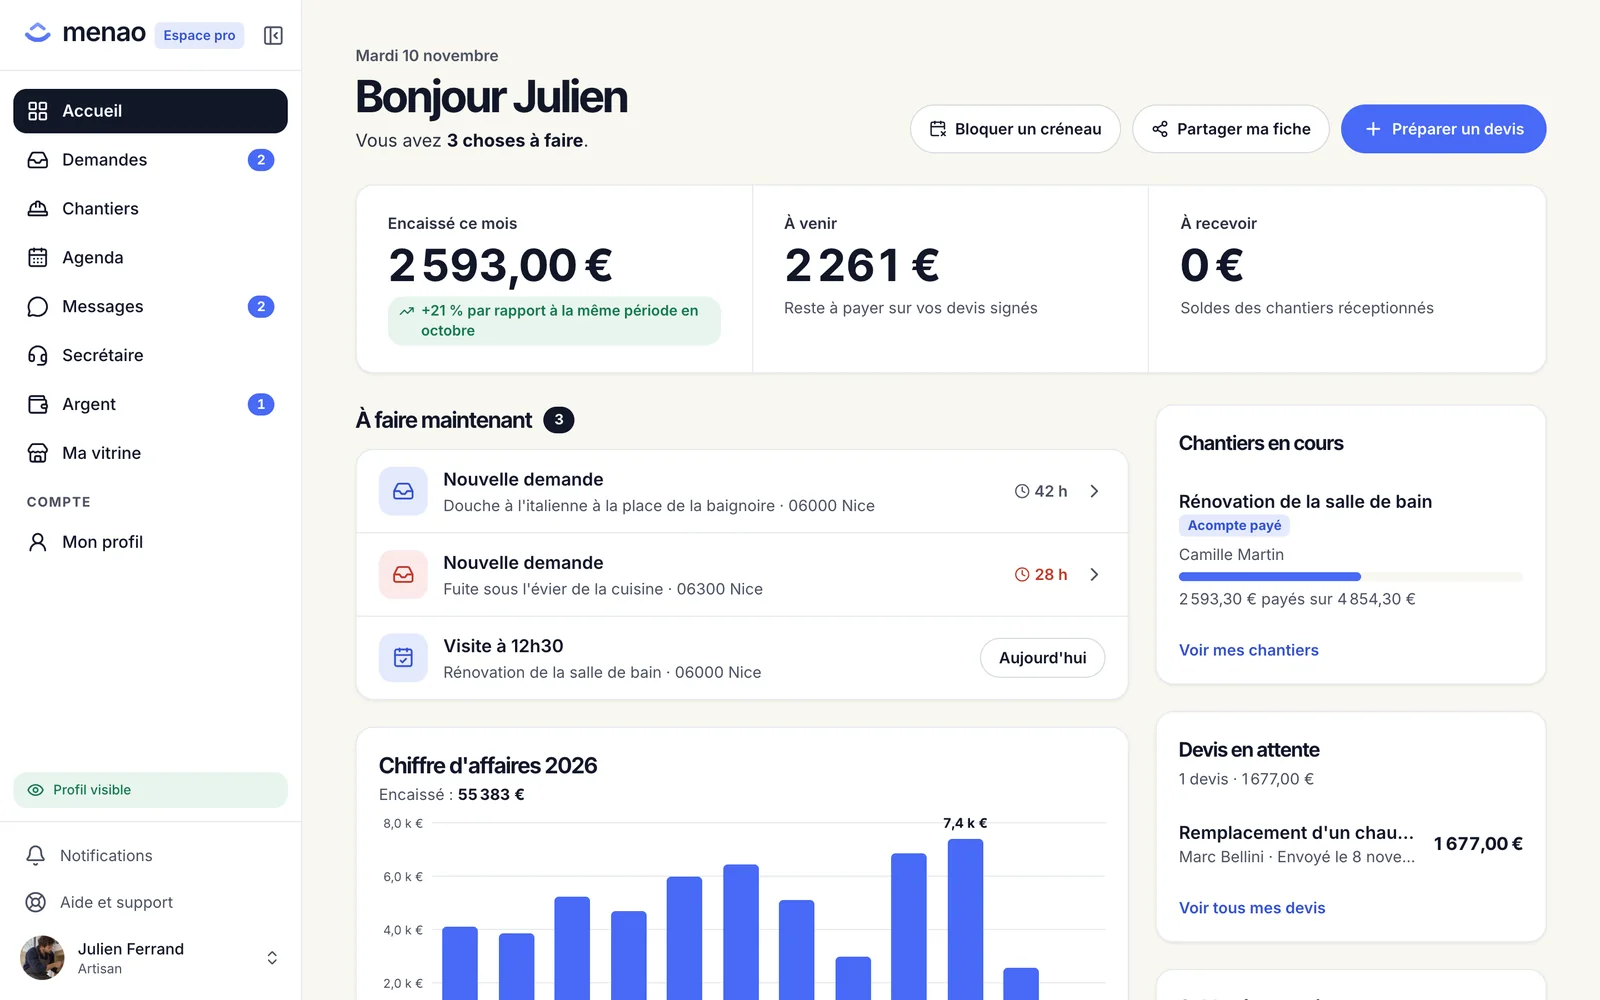
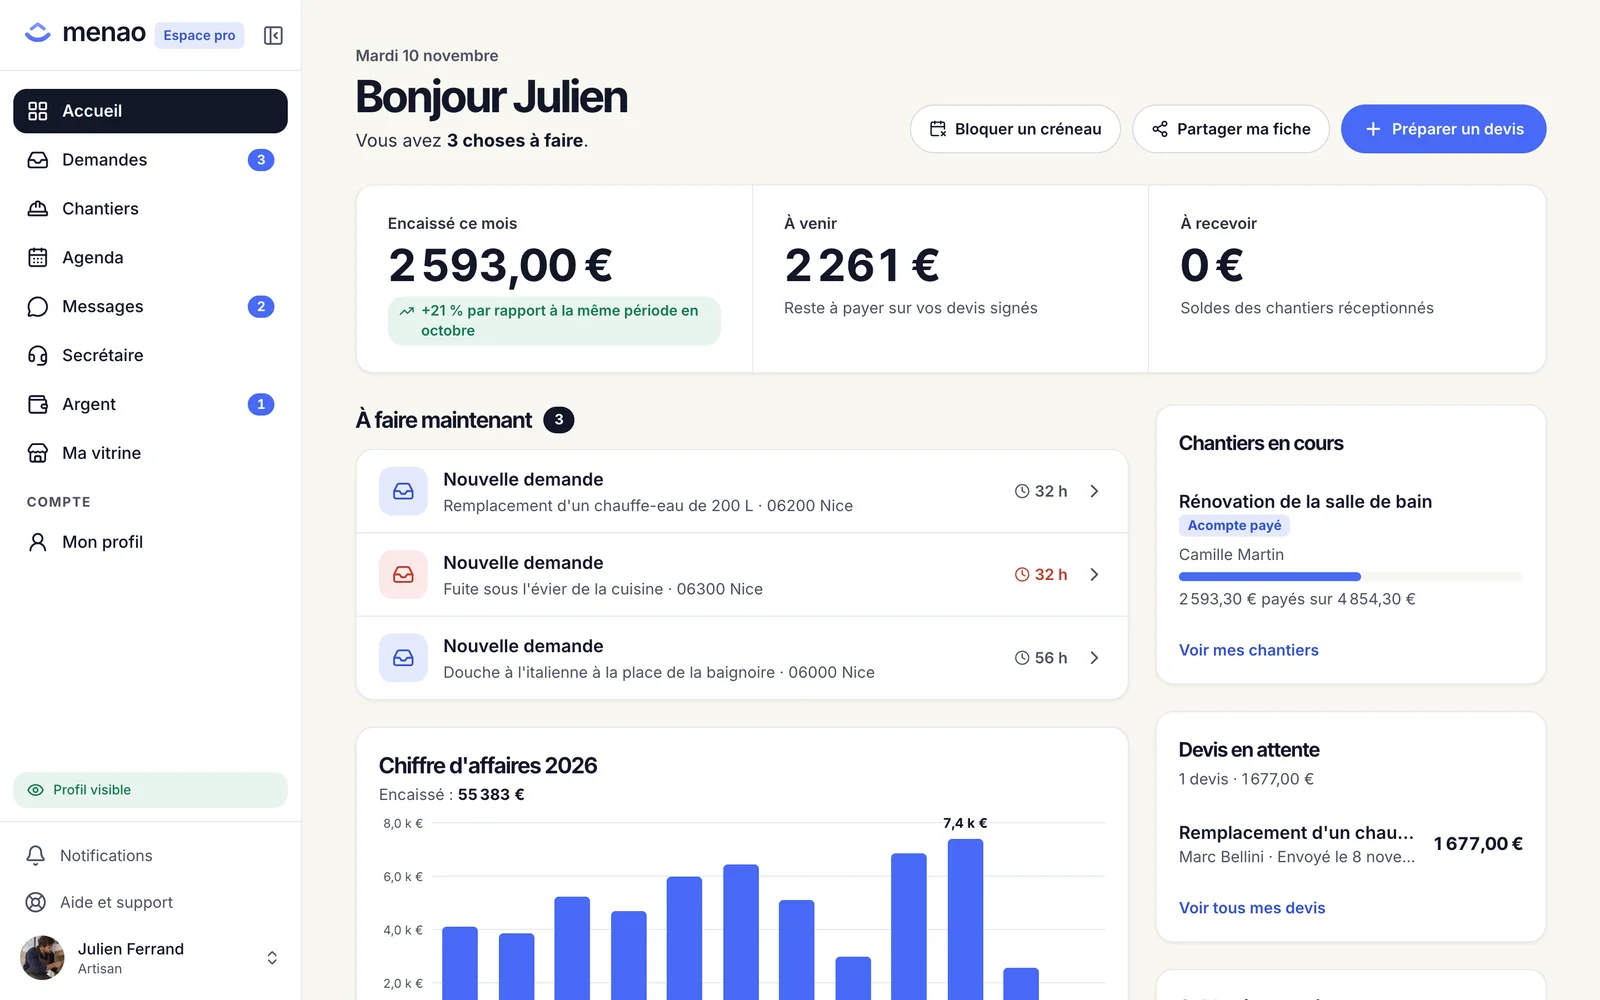
feat(F-118): mockups en grand sur l'Espace Pro et l'accueil (lot 24)
- Bandeau de /pro : le vrai accueil de l'application dans un grand
  téléphone et le parcours en trois cartes (demande, devis signé,
  acompte), à la place de l'ordinateur et du téléphone miniatures.
- Section « Tout-en-un » : tableau de bord dans une fenêtre de
  navigateur et écran « Demandes » dans un téléphone.
- Accueil : les quatre téléphones du parcours montrent l'écran entier.
- Écran web aligné sur les demandes de l'application ; ADR 0270.

Changed region(s): [[0.25, 0.62, 0.5312, 0.682], [0.2812, 0.496, 0.5312, 0.527], [0.625, 0.651, 0.6875, 0.682]]

diff --git a/apps/web/src/components/site/device-mockups.tsx b/apps/web/src/components/site/device-mockups.tsx
@@ -1,11 +1,9 @@
-import type { ReactNode } from "react";
-import { LogoMark } from "@/components/brand/logo";
 import type { AppScreen } from "@/lib/site/app-screens";
 
 /**
- * Mockups du site (ADR 0147) : vrais écrans de l'application dans un téléphone ou un ordinateur
- * dessinés en code (aucune image de cadre), et notification de l'application. Les écrans sont des
- * images ; le cadre suit la largeur donnée par `className`.
+ * Mockups du site (ADR 0147, ADR 0270) : vrais écrans de l'application dans un téléphone ou une
+ * fenêtre de navigateur dessinés en code (aucune image de cadre). Les écrans sont des images ; le
+ * cadre suit la largeur donnée par `className`.
  */
 
 // Téléphone de 390 × 844 points : cadre de 3 % de la largeur, écran exactement au format capturé.
@@ -93,8 +91,8 @@ export function PhoneMockup({
   );
 }
 
-/** Ordinateur portable : écran web de 1 600 × 1 000 et socle. */
-export function LaptopMockup({
+/** Fenêtre de navigateur : écran web de 1 600 × 1 000 sous une barre d'onglet dessinée en code. */
+export function BrowserMockup({
   src,
   alt,
   className = "",
@@ -106,63 +104,34 @@ export function LaptopMockup({
   priority?: boolean;
 }) {
   return (
-    <div className={`relative ${className}`}>
-      <div className="relative mx-[6%] rounded-t-[2.6%_4.2%] bg-[#0c0f1c] p-[1.6%] pb-[2.2%] shadow-[0_40px_80px_-35px_rgb(11_20_56/0.6),inset_0_0_0_1px_rgb(255_255_255/0.1)]">
-        <span
-          aria-hidden="true"
-          className="absolute top-[0.55%] left-1/2 size-[0.7%] -translate-x-1/2 rounded-full bg-white/25"
-        />
-        {/* eslint-disable-next-line @next/next/no-img-element -- images non optimisées par Vercel (spec §4.4) */}
-        <img
-          src={src}
-          alt={alt}
-          width={1600}
-          height={1000}
-          loading={priority ? "eager" : "lazy"}
-          fetchPriority={priority ? "high" : undefined}
-          decoding="async"
-          className="block aspect-[16/10] w-full rounded-[0.4%] object-cover object-top"
-        />
-      </div>
+    <div
+      className={`overflow-hidden rounded-xl border border-border-strong bg-surface shadow-[0_40px_90px_-30px_rgb(17_23_40/0.3)] sm:rounded-[1.125rem] ${className}`}
+    >
       <div
         aria-hidden="true"
-        className="relative aspect-[100/3.4] w-full rounded-b-[50%_100%] bg-gradient-to-b from-[#e8eaf0] to-[#a9aebb] shadow-[0_18px_30px_-18px_rgb(11_20_56/0.6)]"
+        className="flex h-6 items-center gap-1 border-b border-border bg-[#f1f2f5] px-2.5 sm:h-10 sm:gap-[0.4375rem] sm:px-4"
       >
-        <span className="absolute top-0 left-1/2 h-[38%] w-[15%] -translate-x-1/2 rounded-b-lg bg-[#9ca2b0]/60" />
+        {["#ff5f57", "#febc2e", "#28c840"].map((color) => (
+          <span
+            key={color}
+            className="size-1.5 rounded-full sm:size-[0.6875rem]"
+            style={{ backgroundColor: color }}
+          />
+        ))}
+        <span className="mx-auto h-3 w-[32%] rounded-full border border-border bg-surface sm:h-6" />
+        <span className="w-6 sm:w-12" />
       </div>
-    </div>
-  );
-}
-
-/** Notification de l'application, comme sur l'écran verrouillé (valeurs d'exemple). */
-export function AppNotification({
-  title,
-  text,
-  time,
-  icon,
-  className = "",
-}: {
-  title: string;
-  text: string;
-  time: string;
-  icon?: ReactNode;
-  className?: string;
-}) {
-  return (
-    <div
-      aria-hidden="true"
-      className={`flex w-[17.5rem] items-start gap-3 rounded-[1.25rem] bg-white/85 p-3 text-[#121735] shadow-raised ring-1 ring-black/5 backdrop-blur-xl ${className}`}
-    >
-      <span className="flex size-9 shrink-0 items-center justify-center rounded-[0.6rem] bg-primary text-white">
-        {icon ?? <LogoMark tone="white" className="size-5" />}
-      </span>
-      <span className="flex min-w-0 flex-1 flex-col">
-        <span className="flex items-baseline justify-between gap-2">
-          <span className="truncate text-[0.8125rem] font-semibold">{title}</span>
-          <span className="shrink-0 text-[0.6875rem] text-[#121735]/55">{time}</span>
-        </span>
-        <span className="text-[0.8125rem] leading-snug text-[#121735]/80">{text}</span>
-      </span>
+      {/* eslint-disable-next-line @next/next/no-img-element -- images non optimisées par Vercel (spec §4.4) */}
+      <img
+        src={src}
+        alt={alt}
+        width={1600}
+        height={1000}
+        loading={priority ? "eager" : "lazy"}
+        fetchPriority={priority ? "high" : undefined}
+        decoding="async"
+        className="block aspect-[16/10] w-full object-cover object-top"
+      />
     </div>
   );
 }

diff --git a/apps/web/src/app/(site)/pro/page.tsx b/apps/web/src/app/(site)/pro/page.tsx
@@ -23,13 +23,14 @@ import { AgentsSection } from "@/components/pro-landing/agents-section";
 import { CallbackLink } from "@/components/pro-landing/callback-link";
 import { CommissionCalculator } from "@/components/pro-landing/commission-calculator";
 import { DemoVideo } from "@/components/pro-landing/demo-video";
+import { HeroFlow } from "@/components/pro-landing/hero-flow";
 import { PricingPlans } from "@/components/pro-landing/pricing-plans";
 import { ProAssistant } from "@/components/pro-landing/pro-assistant";
 import { ProFinalCta } from "@/components/pro-landing/pro-final-cta";
 import { ProofStrip } from "@/components/pro-landing/proof-strip";
 import { FaqJsonLd, FaqList } from "@/components/site/faq-list";
 import { RequestChecklist, VoiceQuoteVisual } from "@/components/pro-landing/feature-visuals";
-import { AppNotification, LaptopMockup, PhoneMockup } from "@/components/site/device-mockups";
+import { BrowserMockup, PhoneMockup } from "@/components/site/device-mockups";
 import { StoreBadges } from "@/components/site/store-badges";
 import { SectionHeading } from "@/components/site/section-heading";
 import { Steps } from "@/components/site/steps";
@@ -149,7 +150,7 @@ export default async function ProLandingPage() {
             tone="white"
             className="absolute -right-16 -bottom-24 hidden size-[30rem] opacity-[0.07] lg:block"
           />
-          <div className="relative mx-auto grid max-w-6xl grid-cols-1 items-center gap-12 lg:grid-cols-[minmax(0,1.1fr)_minmax(0,1fr)]">
+          <div className="relative mx-auto grid max-w-6xl grid-cols-1 items-center gap-12 lg:grid-cols-[minmax(0,1.1fr)_minmax(0,1fr)] xl:grid-cols-[minmax(0,1fr)_minmax(0,1.08fr)]">
             <div className="flex flex-col gap-6">
               <span className="inline-flex self-start rounded-pill border border-white/30 bg-white/15 px-3 py-1 text-sm backdrop-blur">
                 {t.hero.eyebrow}
@@ -189,25 +190,8 @@ export default async function ProLandingPage() {
                 {t.hero.signIn}
               </TextLink>
             </div>
-            {/* L'espace pro sur ordinateur et l'application (ADR 0147) : vrais écrans, données
-                fictives. */}
-            <div className="relative mx-auto w-full max-w-xl pt-6 pb-10 lg:pb-14">
-              <LaptopMockup
-                src={WEB_SCREENS.pro}
-                alt={m.screens.webPro}
-                className="w-[92%]"
-                priority
-              />
-              <div className="absolute right-0 bottom-0 w-[30%]">
-                <PhoneMockup screen={APP_SCREENS.proAccueil} alt={m.screens.proAccueil} priority />
-              </div>
-              <AppNotification
-                title={m.deposit.title}
-                text={m.deposit.text}
-                time={m.deposit.time}
-                className="absolute -top-2 left-[4%] hidden animate-menao-float sm:flex"
-              />
-            </div>
+            {/* Le vrai accueil de l'application et le parcours en cartes (ADR 0270). */}
+            <HeroFlow />
           </div>
         </div>
       </section>
@@ -284,6 +268,14 @@ export default async function ProLandingPage() {
             title={t.features.title}
             subtitle={t.features.subtitle}
           />
+          {/* Le produit en grand (ADR 0270) : le tableau de bord sur ordinateur et les demandes
+              dans l'application, vrais écrans et données fictives. */}
+          <div className="relative mx-auto w-full pr-[7%] pb-5 sm:pb-8">
+            <BrowserMockup src={WEB_SCREENS.pro} alt={m.screens.webPro} />
+            <div className="absolute right-0 bottom-0 w-[23%] sm:w-[21%]">
+              <PhoneMockup screen={APP_SCREENS.proDemandes} alt={m.screens.proDemandes} />
+            </div>
+          </div>
           <div className="flex flex-col gap-4">
             <div className="grid grid-cols-1 gap-4 lg:grid-cols-3">
               <article

diff --git a/apps/web/src/components/pro-landing/hero-flow.tsx b/apps/web/src/components/pro-landing/hero-flow.tsx
@@ -1,0 +1,99 @@
+import { Inbox, PenLine, Wallet, type LucideIcon } from "lucide-react";
+import { PhoneMockup } from "@/components/site/device-mockups";
+import { fr } from "@/i18n/fr";
+import { APP_SCREENS } from "@/lib/site/app-screens";
+
+const m = fr.site.mockups;
+
+const TONES = {
+  primary: { icon: "bg-primary-soft text-primary-strong", label: "text-primary-strong" },
+  neutral: { icon: "bg-background text-foreground", label: "text-foreground" },
+  success: { icon: "bg-success-soft text-success", label: "text-success" },
+} as const;
+
+/** Carte d'une étape du parcours (valeurs d'exemple, décorative : le téléphone porte la description). */
+function FlowCard({
+  step,
+  icon: Icon,
+  tone,
+  card,
+  className = "",
+}: {
+  step: number;
+  icon: LucideIcon;
+  tone: keyof typeof TONES;
+  card: { eyebrow: string; title: string; sub: string; pill?: string };
+  className?: string;
+}) {
+  return (
+    <div
+      aria-hidden="true"
+      className={`absolute flex items-start gap-3 rounded-[1.25rem] bg-surface p-3.5 text-foreground shadow-[0_24px_50px_-12px_rgb(4_8_30/0.5)] sm:gap-3.5 sm:p-4 ${className}`}
+    >
+      <span
+        className={`flex size-9 shrink-0 items-center justify-center rounded-xl sm:size-10 ${TONES[tone].icon}`}
+      >
+        <Icon className="size-[1.125rem]" />
+      </span>
+      <span className="flex min-w-0 flex-1 flex-col gap-0.5">
+        <span
+          className={`text-[0.6875rem] font-bold tracking-[0.06em] uppercase ${TONES[tone].label}`}
+        >
+          {card.eyebrow}
+        </span>
+        <span className="font-display text-[0.9375rem] leading-tight font-bold tracking-tight sm:text-[1.0625rem]">
+          {card.title}
+        </span>
+        <span className="text-xs leading-snug text-label sm:text-[0.8125rem]">{card.sub}</span>
+        {card.pill && (
+          <span className="mt-1.5 self-start rounded-full bg-primary-soft px-2 py-0.5 text-xs font-bold text-primary-strong">
+            {card.pill}
+          </span>
+        )}
+      </span>
+      <span className="absolute -top-2.5 -left-2.5 hidden size-6 items-center justify-center rounded-full border-2 border-white bg-foreground text-xs font-bold text-white xl:flex">
+        {step}
+      </span>
+    </div>
+  );
+}
+
+/**
+ * Visuel du bandeau de l'Espace Pro (ADR 0270) : le vrai accueil de l'application dans un grand
+ * téléphone, et le parcours en cartes (demande, devis signé, acompte). Très grand écran : trois
+ * cartes à côté du téléphone ; en dessous : deux cartes sur le téléphone, coupé en bas sur mobile.
+ */
+export function HeroFlow() {
+  return (
+    <div className="relative mx-auto w-full max-w-[26rem] max-lg:-mb-16 sm:max-lg:-mb-24 xl:max-w-none">
+      <span
+        aria-hidden="true"
+        className="absolute top-16 left-[5.5rem] hidden h-[25rem] border-l-2 border-dashed border-white/40 xl:block"
+      />
+      <div className="mx-auto w-64 max-lg:h-[27rem] max-lg:overflow-hidden lg:w-60 xl:mr-0 xl:w-[19rem]">
+        <PhoneMockup screen={APP_SCREENS.proAccueil} alt={m.screens.proAccueil} priority />
+      </div>
+      <FlowCard
+        step={1}
+        icon={Inbox}
+        tone="primary"
+        card={m.flow.request}
+        className="top-[16.25rem] left-0 w-[15.5rem] lg:top-[21rem] xl:top-11 xl:w-[16.5rem]"
+      />
+      <FlowCard
+        step={2}
+        icon={PenLine}
+        tone="neutral"
+        card={m.flow.signed}
+        className="top-[15.5rem] left-8 w-[16.5rem] max-xl:hidden"
+      />
+      <FlowCard
+        step={3}
+        icon={Wallet}
+        tone="success"
+        card={m.flow.deposit}
+        className="top-[9.75rem] right-0 w-[13.25rem] lg:top-[12.5rem] xl:top-[26rem] xl:right-auto xl:left-0 xl:w-[16.5rem]"
+      />
+    </div>
+  );
+}

diff --git a/apps/web/src/i18n/fr.ts b/apps/web/src/i18n/fr.ts
@@ -977,9 +977,30 @@ export const fr = {
         clientAvis:
           "Application MENAO : l'avis du client noté sur la qualité, les délais et la communication",
         proAccueil:
-          "Application MENAO pour les artisans : l'accueil avec les clients en attente de devis, l'encaissé du mois et les choses à faire",
+          "Application MENAO pour les artisans : l'accueil avec l'encaissé du mois, l'argent à venir et les choses à faire",
+        proDemandes:
+          "Application MENAO pour les artisans : les demandes à traiter, avec le délai pour répondre",
         webPro:
-          "Espace pro MENAO sur ordinateur : le tableau de bord avec les nouvelles demandes, la visite du jour et les devis à envoyer",
+          "Espace pro MENAO sur ordinateur : le tableau de bord avec l'encaissé du mois, les demandes à traiter, le chiffre d'affaires et les chantiers en cours",
+      },
+      // Parcours du bandeau de l'Espace Pro (ADR 0270) : valeurs d'exemple, celles des écrans.
+      flow: {
+        request: {
+          eyebrow: "Nouvelle demande",
+          title: "Douche à l'italienne à la place de la baignoire",
+          sub: "06000 Nice · photos jointes",
+          pill: "46 h pour répondre",
+        },
+        signed: {
+          eyebrow: "Devis signé en ligne",
+          title: "4 854,30 € TTC",
+          sub: "Devis D-2026-0017 · Camille Martin",
+        },
+        deposit: {
+          eyebrow: "Acompte reçu",
+          title: "+ 1 456,29 €",
+          sub: "Versés sur votre compte",
+        },
       },
       deposit: {
         title: "Acompte reçu",

diff --git a/apps/web/src/components/site/screen-steps.tsx b/apps/web/src/components/site/screen-steps.tsx
@@ -4,8 +4,8 @@ import { PhoneMockup } from "./device-mockups";
 
 /**
  * Étapes illustrées par les vrais écrans de l'application (ADR 0147) : quatre colonnes sur grand
- * écran, carrousel horizontal sur mobile pour garder la page courte. Le téléphone sort du bas de
- * son encart.
+ * écran, avec l'écran entier et un décalage une colonne sur deux (ADR 0270) ; carrousel horizontal
+ * sur mobile pour garder la page courte, où le téléphone sort du bas de son encart.
  */
 export function ScreenSteps({
   items,
@@ -23,12 +23,14 @@ export function ScreenSteps({
             key={step.title}
             className="flex w-[78%] shrink-0 snap-center flex-col gap-5 sm:w-[46%] md:w-auto"
           >
-            <div className="relative h-72 overflow-hidden rounded-card bg-[linear-gradient(180deg,var(--color-primary-soft)_0%,var(--color-primary-softer)_100%)] px-8 pt-7">
+            <div
+              className={`relative h-72 overflow-hidden rounded-card bg-[linear-gradient(180deg,var(--color-primary-soft)_0%,var(--color-primary-softer)_100%)] px-8 pt-7 md:h-auto md:px-4 lg:px-6 ${i % 2 === 0 ? "md:pt-7 md:pb-14" : "md:pt-14 md:pb-7"}`}
+            >
               {key && (
                 <PhoneMockup
                   screen={APP_SCREENS[key]}
                   alt={fr.site.mockups.screens[key]}
-                  className="mx-auto w-full max-w-[13rem]"
+                  className="mx-auto w-full max-w-[13rem] md:max-w-[15.75rem]"
                 />
               )}
             </div>

diff --git a/apps/web/src/app/(site)/page.tsx b/apps/web/src/app/(site)/page.tsx
@@ -73,7 +73,7 @@ export default async function HomePage() {
           {/* Chaque étape illustrée par l'écran correspondant de l'application (ADR 0147). */}
           <ScreenSteps
             items={steps.items}
-            screens={["clientRecherche", "clientFiche", "clientDevis", "clientSuivi"]}
+            screens={["clientRecherche", "clientArtisans", "clientDevis", "clientSuivi"]}
           />
           <AppBand id="home-app" />
           <div className="flex flex-col items-stretch gap-3 sm:flex-row sm:justify-center">

diff --git a/apps/web/src/lib/site/app-screens.ts b/apps/web/src/lib/site/app-screens.ts
@@ -24,6 +24,7 @@ export const APP_SCREENS = {
   clientSuivi: { src: "/images/app/client-suivi.webp", top: BEIGE, bottom: BEIGE },
   clientAvis: { src: "/images/app/client-avis.webp", top: BEIGE, bottom: "#ffffff" },
   proAccueil: { src: "/images/app/pro-accueil.webp", top: BEIGE, bottom: "#ffffff" },
+  proDemandes: { src: "/images/app/pro-demandes.webp", top: BEIGE, bottom: "#ffffff" },
 } satisfies Record<string, AppScreen>;
 
 export type AppScreenKey = keyof typeof APP_SCREENS;

diff --git a/docs/adr/0270-mockups-en-grand.md b/docs/adr/0270-mockups-en-grand.md
@@ -1,0 +1,20 @@
+# ADR 0270 — Mockups en grand : vrais écrans à jour et parcours en cartes (lot 24)
+
+- Statut : accepté
+- Date : 10 novembre 2026
+- Suite de l'ADR 0147 (mockups du site), de l'ADR 0265 (Espace Pro repensé) et du plan « mockups, images, vidéo » du 10 novembre. Lot 24 maquetté et validé le 10 novembre.
+
+## Contexte
+Les écrans montrés sur le site dataient d'avant la refonte de l'interface, et le bandeau de l'Espace Pro les affichait trop petits pour être lus (ordinateur et téléphone côte à côte).
+
+## Décision
+- **Écrans recapturés** depuis l'application et l'espace pro actuels (mêmes personnes et données fictives), aux mêmes noms et dimensions. Ajout de `pro-demandes.webp`.
+- **Bandeau de `/pro`** (`HeroFlow`) : le vrai accueil de l'application dans un grand téléphone, et le parcours en trois cartes d'exemple (nouvelle demande, devis signé en ligne, acompte reçu). Très grand écran : cartes à côté du téléphone ; en dessous : deux cartes sur le téléphone, coupé en bas sur mobile. L'ordinateur quitte le bandeau.
+- **Section « Tout-en-un » de `/pro`** : sous le titre existant, le tableau de bord dans une fenêtre de navigateur dessinée en code (`BrowserMockup`) et l'écran « Demandes » dans un téléphone, au-dessus des cartes existantes.
+- **Accueil, « Comment ça marche »** (`ScreenSteps`) : sur ordinateur, les quatre téléphones montrent l'écran entier, décalés une colonne sur deux ; l'étape 2 montre la sélection des artisans. Le carrousel mobile ne change pas.
+- Aucun titre ni texte de page modifié. Les cartes du parcours reprennent les valeurs des écrans de démonstration et sont masquées aux lecteurs d'écran (le téléphone porte la description).
+- `LaptopMockup` et `AppNotification` sont retirés (plus utilisés).
+
+## Conséquences
+- La chaîne de capture reste hors Git (`medias/mockups-site`). La page locale qui sert l'écran web doit suivre le vrai tableau de bord : la comparer au site avant toute nouvelle capture.
+- La section du parcours de l'accueil grandit d'environ 250 px sur ordinateur.
